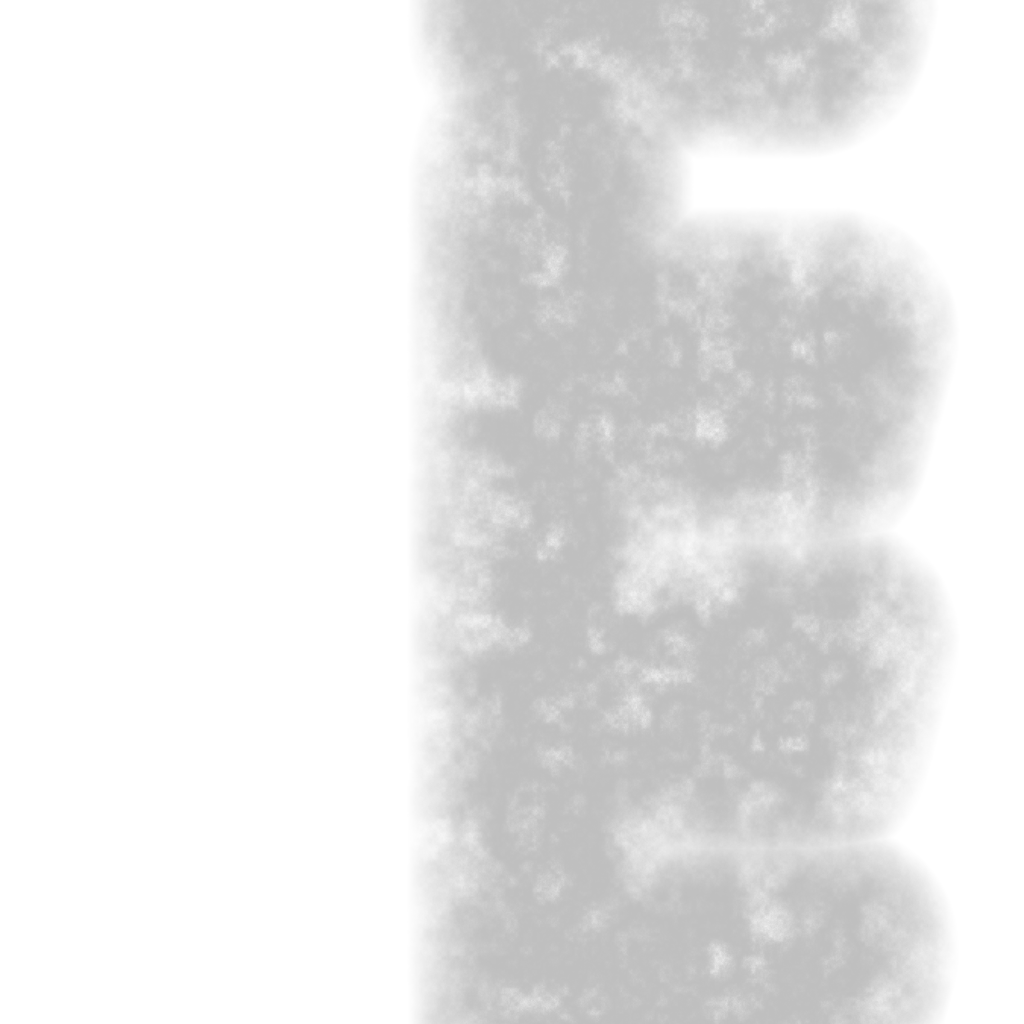
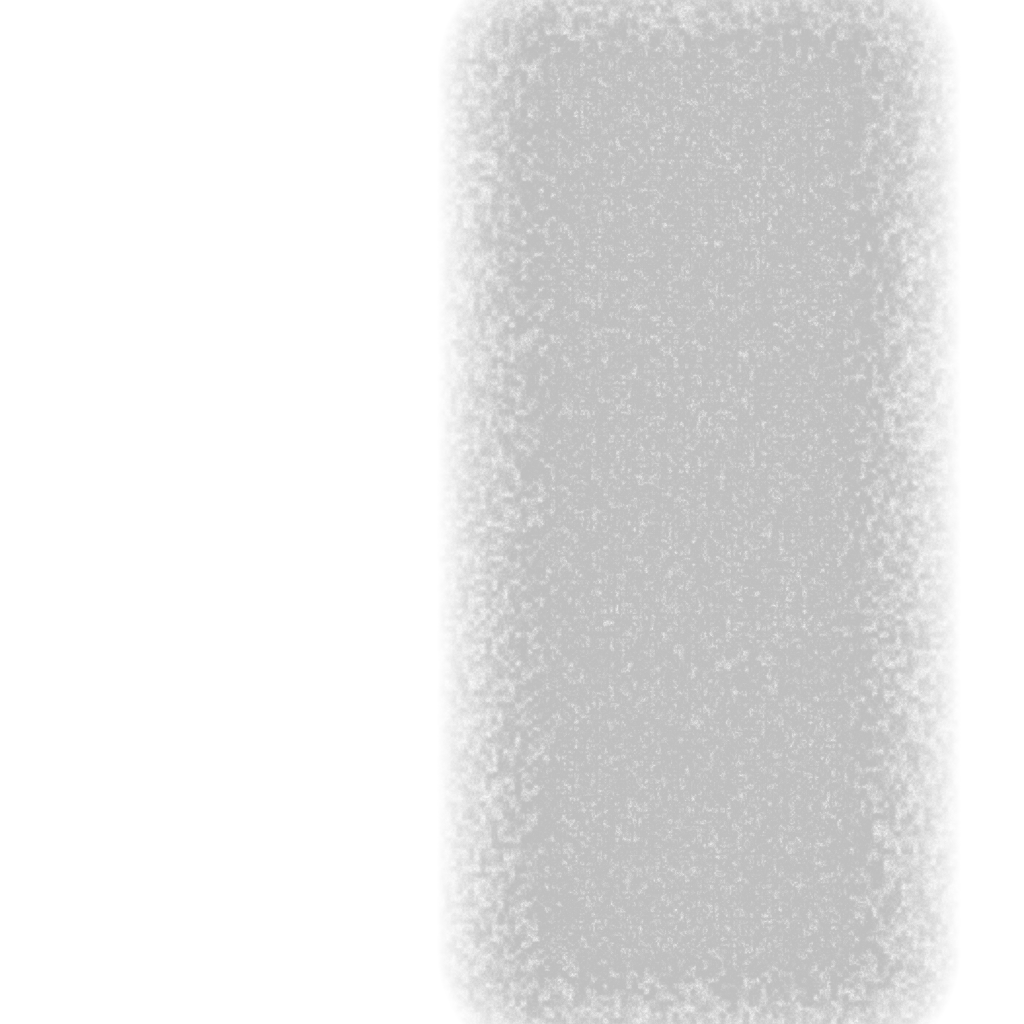
optimize damage and age
use setpixels instead of setpixel many times, use nonalloc raycasts

diff --git a/Assets/Scripts/Functions/DamageAndAge.cs b/Assets/Scripts/Functions/DamageAndAge.cs
@@ -34,7 +34,7 @@ public class DamageAndAge : MonoBehaviour
             
             // 1. Find out if we are going to use any other objects as helpers (i.e. a window)
             List<GameObject> sampleSourceObjects = GetSampleSourceObjects(helperLabel.text);
-            Texture2D tex = CreateSingleColorTexture2D(width, height, TextureFormat.Alpha8, false, new Color(0,0,0,0) );
+            Texture2D tex = CreateSingleColorTexture2D(width, height, TextureFormat.Alpha8, false, new Color(0,0,0,0) ); //make it work for when not selecting sample source object too
             foreach (var sampleSourceObject in sampleSourceObjects)
             {
                 Texture2D tempTex = CreateTextureMaskBase(selected, sampleSourceObject, width, height);
@@ -61,8 +61,7 @@ public class DamageAndAge : MonoBehaviour
         {
             for (int x = 0; x < width; x++)
             {
-                int index = y * height + x;
-                pixelsToMark[index] += (copySourcePixels[index] + targetPixels[index]);
+                pixelsToMark[y * height + x] += (copySourcePixels[y * height + x] + targetPixels[y * height + x]);
             }
         }
         target.SetPixels(pixelsToMark);
@@ -91,6 +90,7 @@ public class DamageAndAge : MonoBehaviour
         Texture2D newDirTex = CreateSingleColorTexture2D(width, height, TextureFormat.Alpha8, false, new Color(0,0,0,0));
         Vector2 currentPixel = new Vector2 (Mathf.FloorToInt(startXY.x),  Mathf.FloorToInt(startXY.y));
         // Fill along X
+        Color[] newDirTexPixels = new Color[height * width];
         if (Math.Abs(angle.y) > 0)
         {
             for (int y = 0; y < ranges.y; y++)
@@ -99,7 +99,7 @@ public class DamageAndAge : MonoBehaviour
                 {   
                     if (currentPixel.x >= width) continue;
                     if (currentPixel.y >= height) continue;
-                    newDirTex.SetPixel(Mathf.FloorToInt(currentPixel.x), Mathf.FloorToInt(currentPixel.y), Color.white);
+                    newDirTexPixels[Mathf.FloorToInt(currentPixel.x) + height * Mathf.FloorToInt(currentPixel.y)] = Color.white;
                     currentPixel.x += 1;
                 }
                 currentPixel.y += angle.y;
@@ -117,18 +117,16 @@ public class DamageAndAge : MonoBehaviour
                 {   
                     if (currentPixel.x >= width) continue;
                     if (currentPixel.y >= height) continue;
-                    newDirTex.SetPixel(Mathf.FloorToInt(currentPixel.x), Mathf.FloorToInt(currentPixel.y), Color.white);
+                    newDirTexPixels[Mathf.FloorToInt(currentPixel.x) + height * Mathf.FloorToInt(currentPixel.y)] = Color.white;
                     currentPixel.y += 1;
                 }
                 currentPixel.x += angle.x;
                 currentPixel.y = smallest.y + angle.y * x;
             }
         }
-        
-        
-        Debug.Log("drawing texture now");
+        newDirTex.SetPixels(newDirTexPixels);
         newDirTex.Apply();
-        DrawTextureIntoImage(newDirTex, "directionTextureTest");
+        // DrawTextureIntoImage(newDirTex, "directionTextureTest");
         return newDirTex;
     }
 
@@ -198,10 +196,8 @@ public class DamageAndAge : MonoBehaviour
         textureMaskMat.color = currMat.color;
         // Find out what kind of texture we working with? Like, rust or impact or smth? 
         var dropdownOpt = damageAgeTypeMats[damageAgeType.value-1];
-        Debug.Log("tryin to set this texture: " + dropdownOpt.mainTexture.name);
         textureMaskMat.SetTexture("_TextureToApply", dropdownOpt.mainTexture);
 
-        Debug.Log("after " + textureMaskMat.GetTexture("_TextureToApply"));
         selected.GetComponent<MeshRenderer>().material = textureMaskMat;
     }
 
@@ -262,17 +258,18 @@ public class DamageAndAge : MonoBehaviour
             // Get the start position of where you should be stepping in world space (it makes sense)
             Vector2 currStep = new Vector2(selectedObject.transform.position.x - selectedObject.GetComponent<Shape>().SizeExent.x/2, selectedObject.transform.position.y - selectedObject.GetComponent<Shape>().SizeExent.y/2);
             Color[] pixelsToMark = new Color[height*width];
+            RaycastHit[] hitResults = new RaycastHit[16];
             for (int y = 0; y < height; y++) {
                 for (int x = 0; x < width; x++) {
                     // Shoot out a ray from each point of the thing in the negative Z, towards camera. if we collide with one of the allowed objs, mark the pixel 
-                    RaycastHit[] hits = Physics.RaycastAll(new Vector3(currStep.x, currStep.y, 1), -Vector3.forward, 100);
-                    
-                    foreach (var hit in hits)
+                    int hits = Physics.RaycastNonAlloc(new Vector3(currStep.x, currStep.y, 1), -Vector3.forward,hitResults, 100);
+                    for (int i = 0; i < hits; i++)
                     {
-                        if (sampleHelperObj == hit.transform.gameObject)
+                        if (sampleHelperObj == hitResults[i].transform.gameObject)
                         {
                             // Set the color to white to begin a mask of where windows are
                             pixelsToMark[height * y + x] = Color.white;
+                            break;
                         }
                     }
                     currStep.x += stepDist.x;
@@ -284,8 +281,6 @@ public class DamageAndAge : MonoBehaviour
             backgroundTex.SetPixels(pixelsToMark);
             // Save texture to disk (maybe not necessary in the end, but really good for debugging purposes)
             backgroundTex.Apply();
-            DrawTextureIntoImage(backgroundTex, "image");
-
             return backgroundTex;
         }
         else
